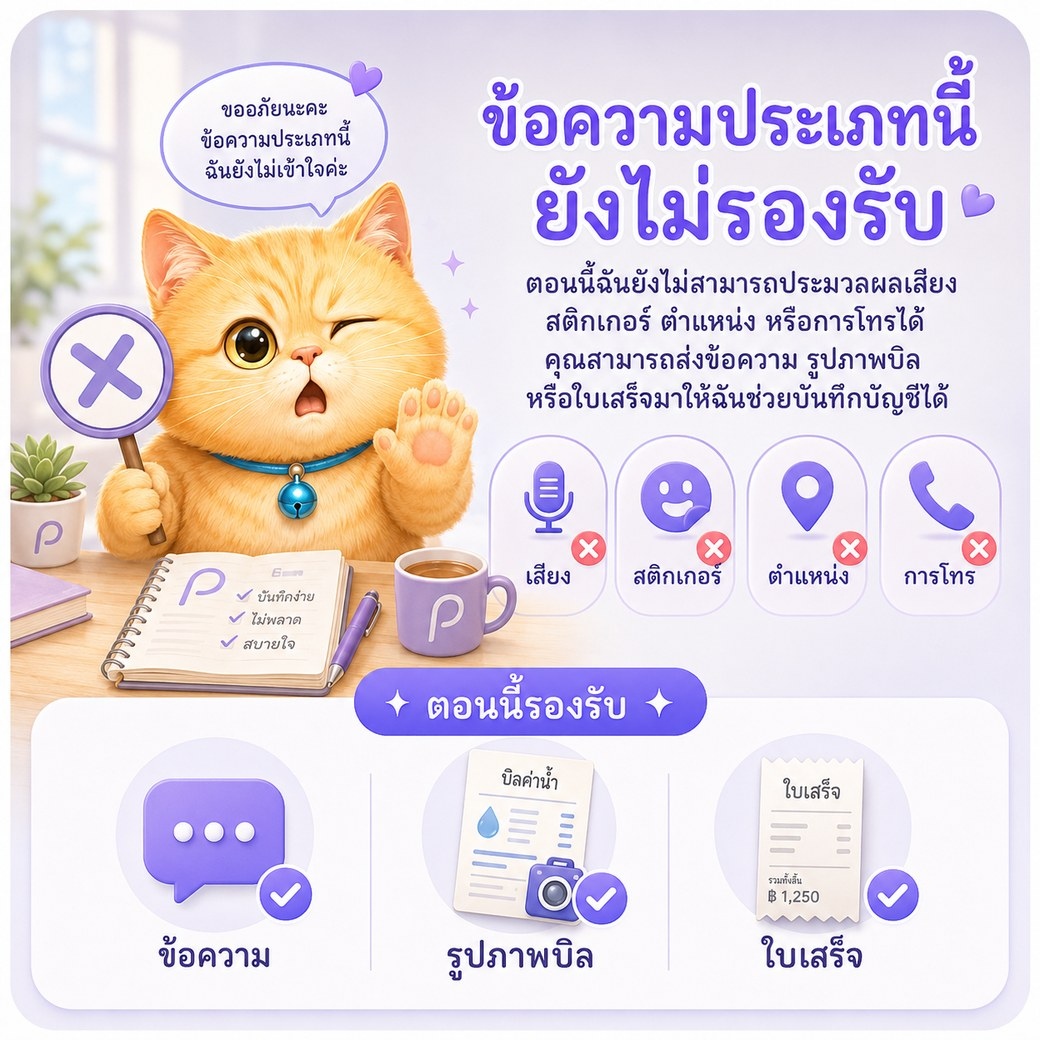
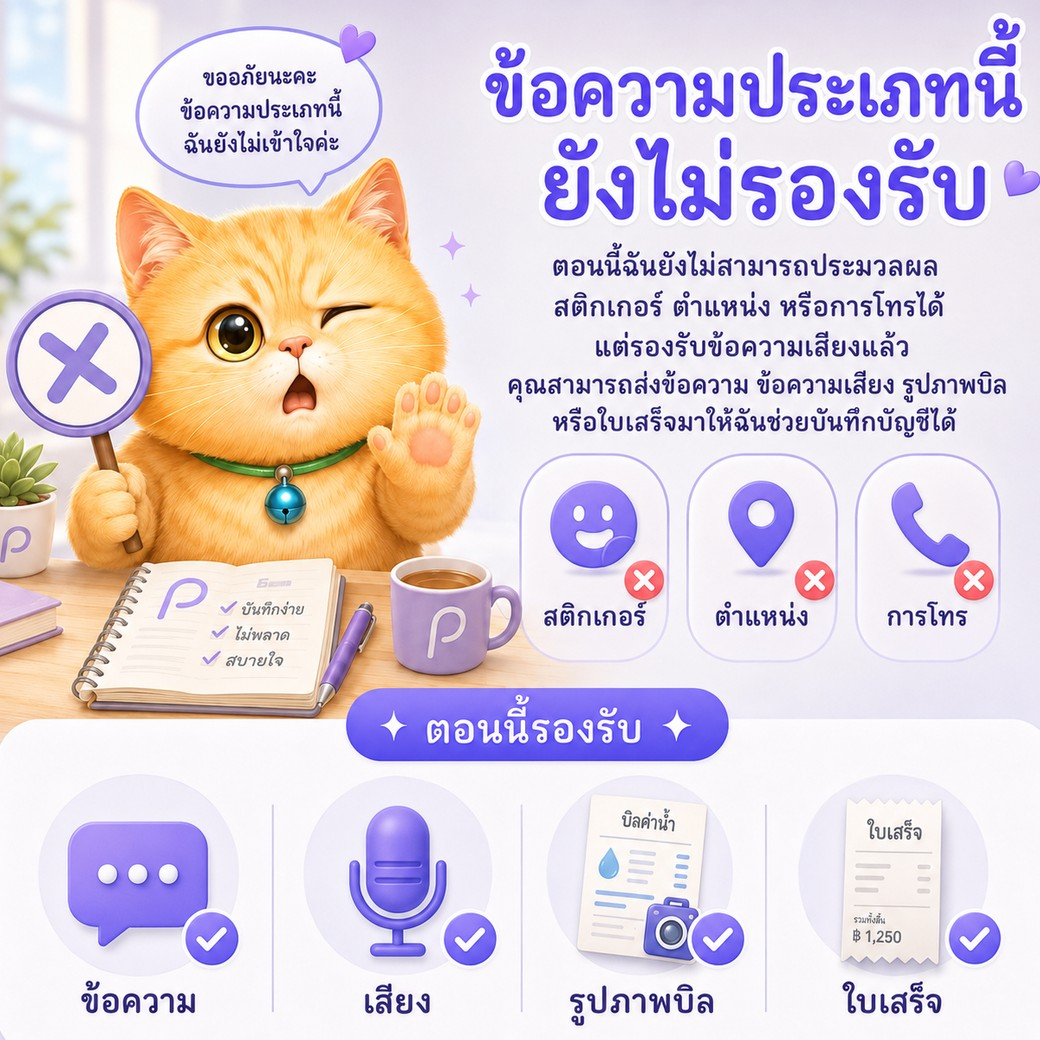
assets(line): 换「不支持消息类型」提示图——语音已移入"已支持"(配语音 STT 上线) + 裁顶角白边
新图 4 已支持(文字/语音/图片/收据)· 不支持仅剩贴图/位置/通话(语音 STT PR#60 已放量);
顶角白边裁掉(四边各裁 24px·1254→1040 母图 JPEG q90)。_CARD_VER 2→3 破 LINE 图片缓存。

diff --git a/services/line_binding/line_imagemap.py b/services/line_binding/line_imagemap.py
@@ -16,7 +16,7 @@ from services.line_binding.line_bind_i18n import CONNECT_URL
 
 # 图片服务基址(LINE 会追加 /{size};见 line_card_image_routes)。
 # _CARD_VER:改图后 bump 一位,破 LINE/客户端按 URL 的图片缓存(URL 变 = 强制重取)。
-_CARD_VER = "2"
+_CARD_VER = "3"
 _IMG_BASE = f"https://pearnly.com/api/line/card/{_CARD_VER}"
 
 _URI = "uri"